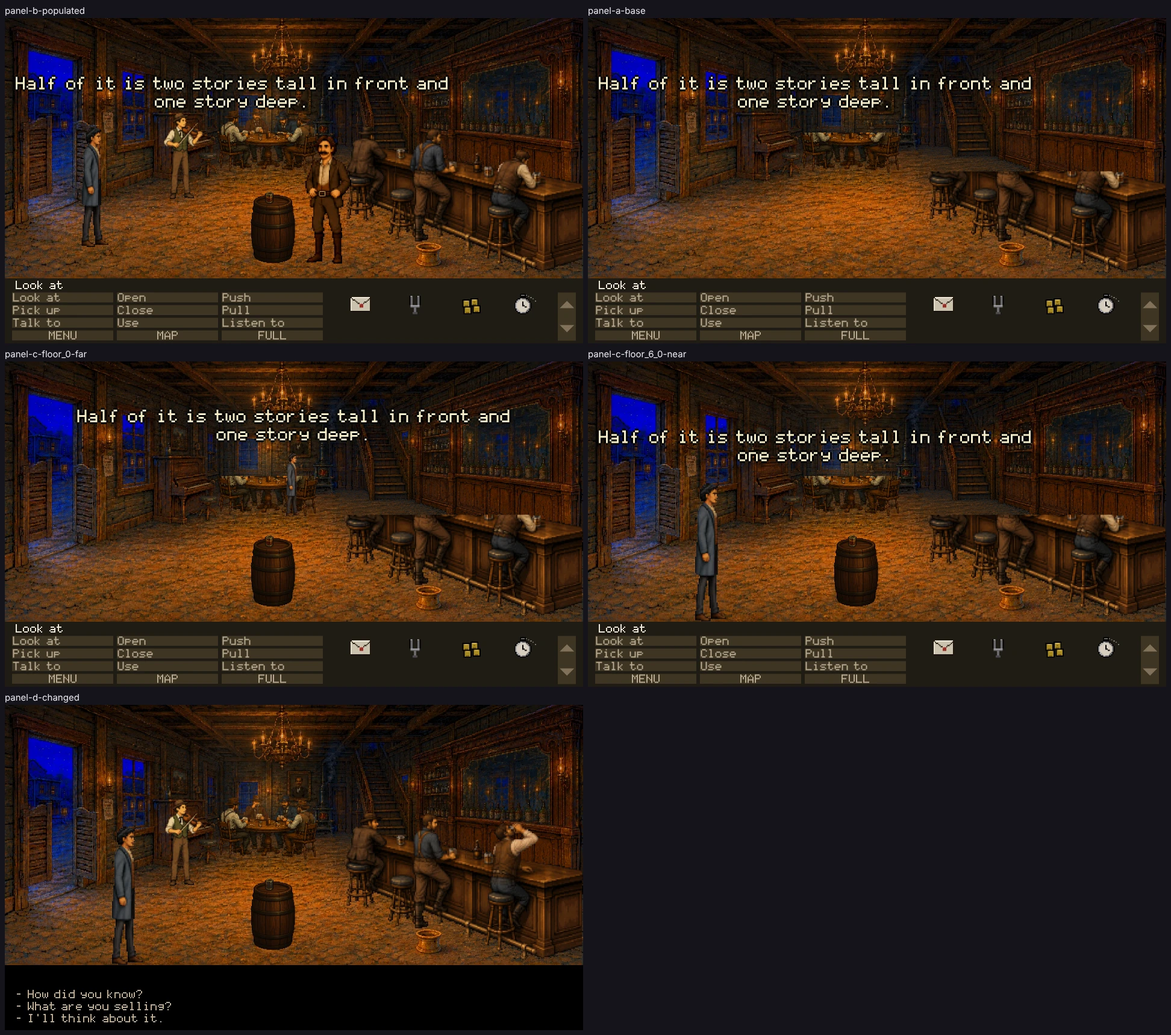
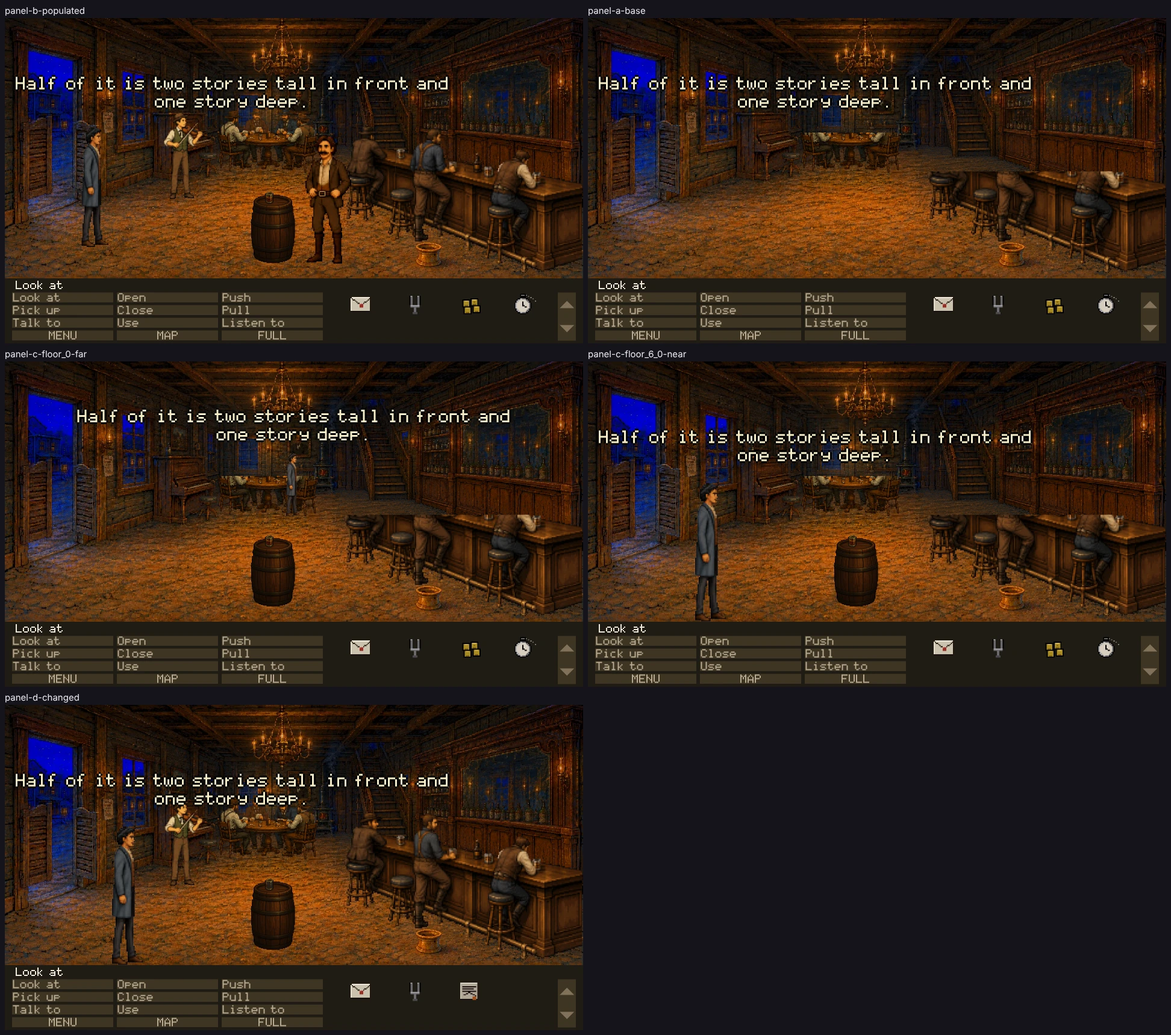
Proof: nugget (bystanders hidden in panel C; the Nugget's panel D by control)
Claude-Session: https://claude.ai/code/session_01FXbCurjq3gWmZKUYv89gwi

diff --git a/renders/proofs/nugget/index.html b/renders/proofs/nugget/index.html
@@ -5,7 +5,7 @@
  h1{font-size:17px;margin:0 0 4px}
  p.lede{color:#9a9aae;margin:0 0 8px;max-width:64em}
  .verdict{font:13px ui-monospace,monospace;padding:8px 10px;border-radius:5px;margin:12px 0;
-   background:#3a1620;border:1px solid #7a2c3c}
+   background:#12331e;border:1px solid #2c6b40}
  figure{margin:0 0 22px}
  img{width:100%;display:block;border-radius:5px;border:1px solid #2c2c38}
  figcaption{padding:7px 2px;font-size:13px}
@@ -17,7 +17,7 @@
 </style>
 <h1>nugget — four-panel live-runtime proof</h1>
 <p class="lede">Every frame below is the full play area as the renderer drew it, in the running
-game, at <code>38060882</code> on <code>claude/tender-sagan-buz50u</code>.
+game, at <code>d4b17779</code> on <code>claude/tender-sagan-buz50u</code>.
 No crop, isolated sprite or source image appears here: those are for diagnosing what a full
 frame has already shown.</p>
 <p class="lede"><b>These panels establish technical admissibility only.</b> Nothing here says the
@@ -29,8 +29,7 @@ art is good, in style, funny or approved. Only Tyler sets <code>visual_accepted<
     downscaled, never cropped. The full-resolution captures are reproducible test artifacts
     and are not in git; their hashes are below.</span></figcaption>
 </figure>
-<div class="verdict">FAIL — 1 failure(s):
-  panel D: reaching the changed state failed -- route: waitFor {"do":"waitFor","room":"main_street","upTo":60} timed out after 60s. It saw: room nugget, control null, beat -, 3 option(s), handedOver true</div>
+<div class="verdict">PASS — technically admissible</div>
 
   <figure>
     <img src="raw-captures-ignored/panel-b-populated.png" alt="" onerror="this.replaceWith(Object.assign(
@@ -58,7 +57,7 @@ art is good, in style, funny or approved. Only Tyler sets <code>visual_accepted<
     <img src="raw-captures-ignored/panel-d-changed.png" alt="" onerror="this.replaceWith(Object.assign(
       document.createElement('p'), { className: 'gone', textContent:
       'raw capture not committed -- regenerate with: npm run proof ' + "nugget" }))">
-    <figcaption><b>PANEL D &mdash; principal changed state: T_SWINDLED. Visible consequence: Deke Vessel no longer at the bar (doc 57 A3). Out to Main Street and back in, so the Nugget is arrived at again with the flag set.</b>
+    <figcaption><b>PANEL D &mdash; principal changed state: T_SWINDLED. Visible consequence: Deke Vessel no longer at the bar (doc 57 A3). Who is in a room is decided as Thad arrives, so the Nugget is entered again by control with the flag set: setting T_SWINDLED in place opens what follows the swindle, and the front doors are not walked to through a conversation (errata 117).</b>
       <span>room nugget &middot; camera 0 &middot;
         flags T_OPENING_SAID T_COACH_DEPARTED T_UNDERTAKER_NAMED T_HOB_CROSSING T_THAD_LEAVING T_HOB_SPOKEN T_HOB_GONE T_OPENING_DONE T_SEEN_MAIN_STREET T_SWINDLED T_CASE_DOWN T_CASE_TAKEN T_VESSEL_OPENED &middot;
         inventory letter tuning_fork deed</span>
@@ -69,8 +68,8 @@ art is good, in style, funny or approved. Only Tyler sets <code>visual_accepted<
     <img src="raw-captures-ignored/panel-c-floor_0-far.png" alt="">
     <figcaption><b>PANEL C &mdash; floor_0 far, authored y515</b>
       <span>expected 210px &middot; runtime 210px &middot;
-        silhouette 231px, bottom y515</span>
-      <span>art/actors/thad-idlebreak-right/idle-break-01.png</span>
+        silhouette 211px, bottom y515</span>
+      <span>art/actors/thad-idlebreak-right/idle-break-02.png</span>
     </figcaption>
   </figure>
   <figure>
@@ -78,6 +77,6 @@ art is good, in style, funny or approved. Only Tyler sets <code>visual_accepted<
     <figcaption><b>PANEL C &mdash; floor_6_0 near, authored y863</b>
       <span>expected 459px &middot; runtime 459px &middot;
         silhouette 460px, bottom y863</span>
-      <span>art/actors/thad-idlebreak-right/idle-break-04.png</span>
+      <span>art/actors/thad-idlebreak-right/idle-break-06.png</span>
     </figcaption>
   </figure>
